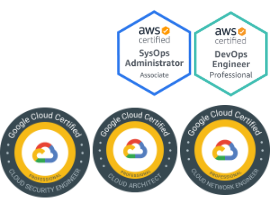
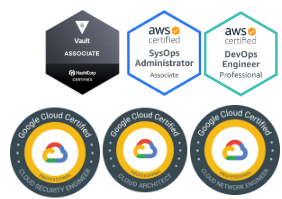
added hasicorp cert

diff --git a/index.html b/index.html
@@ -169,6 +169,12 @@
 				</header>
 				<div class="col-md-9">
 					<div>
+						<h3>HashiCorp Certified: Vault Associate</h3>
+						<p class="sticky">https://www.youracclaim.com/badges/a5765a3e-8c9c-40d4-9439-c08d0c91bf94</p>
+						<p class="sticky">Valid till Jul 2022</p>
+					</div>
+					<hr />
+					<div>
 						<h3>AWS Certified DevOps Administrator - Professional</h3>
 						<p class="sticky">Validation Number R6J4XB812J111X9H</p>
 						<p class="sticky">Valid till Oct 2020</p>
